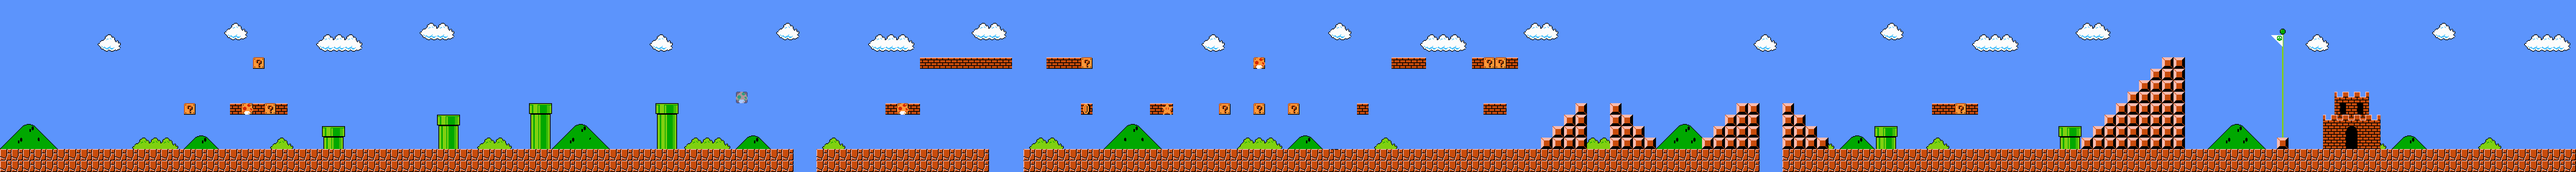
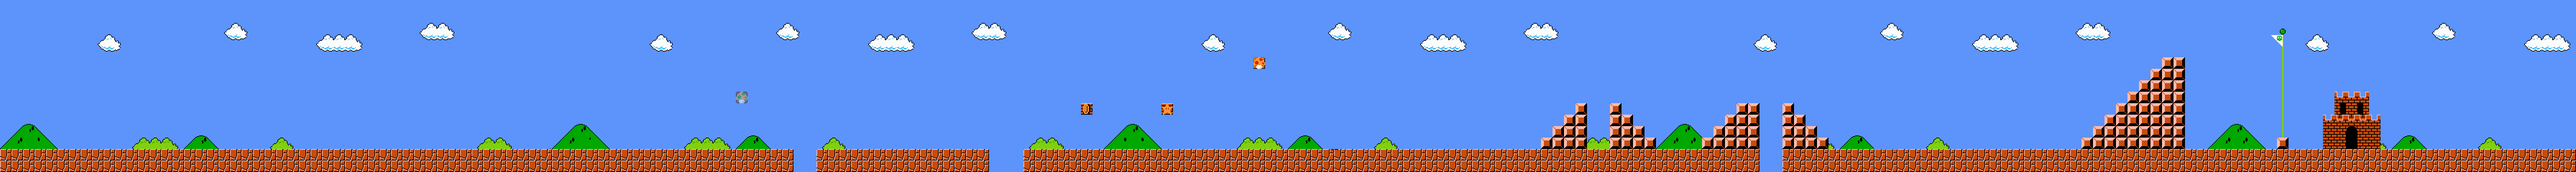
add

diff --git a/include/Level/Level1.hpp b/include/Level/Level1.hpp
@@ -15,6 +15,7 @@ class Level1 : public Level{
             m_Background->SetSize({1.5,1.5});
             m_Background->SetPivot({-3584,240});
             m_Background->SetPosition({-640,360});
+            m_Background->SetZIndex(1);
 
             Map_Manager = std::make_shared<MapManager>(m_Background->GetPosition(),m_Background->GetScaledSize());
 
@@ -79,14 +80,15 @@ class Level1 : public Level{
             }
         }
       private:
-       std::vector<glm::vec2> LuckyBlockPosition = {{16.5,-9.5},{22.5,-5.5},{21.5,-9.5},{23.5,-9.5},{78.5,-9.5},{94.5,-5.5},{106.5,-9.5},{109.5,-9.5},{109.5,-5.5},{112.5,-9.5},{129.5,-5.5},{130.5,-5.5},{170.5,-9.5}};std::vector<glm::vec2> OriginBlock = {{20.5,-9.5} , {22.5,-9.5} , {24.5,-9.5} , {77.5,-9.5} , {79.5,-9.5} , {80.5,-5.5} , {81.5,-5.5} , {82.5,-5.5} , {83.5,-5.5} , {84.5,-5.5} , {85.5,-5.5} , {86.5,-5.5} , {87.5,-5.5} , {91.5,-5.5} ,
-       {92.5,-5.5} , {93.5,-5.5} , {100.5,-9.5} , {118.5,-9.5} , {121.5 , -5.5} , {122.5 , -5.5} , {128.5 , -5.5} , {131.5 , -5.5} , {169.5 , -9.5} , {170.5 , -9.5} , {172.5 , -9.5}};
+       std::vector<glm::vec2> LuckyBlockPosition = {{16.5,-9.5},{22.5,-5.5},{21.5,-9.5},{23.5,-9.5},{78.5,-9.5},{94.5,-5.5},{106.5,-9.5},{109.5,-9.5},{109.5,-5.5},{112.5,-9.5},{129.5,-5.5},{130.5,-5.5},{170.5,-9.5}};
+       std::vector<glm::vec2>OriginBlock = {{20.5,-9.5} , {22.5,-9.5} , {24.5,-9.5} , {77.5,-9.5} , {79.5,-9.5} , {80.5,-5.5} , {81.5,-5.5} , {82.5,-5.5} , {83.5,-5.5} , {84.5,-5.5} , {85.5,-5.5} , {86.5,-5.5} , {87.5,-5.5} , {91.5,-5.5} ,
+       {92.5,-5.5} , {93.5,-5.5} , {100.5,-9.5} , {118.5,-9.5} , {121.5 , -5.5} , {122.5 , -5.5} , {123.5,-5.5},{128.5 , -5.5} ,{129.5,-9.5},{130.5,-9.5}, {131.5 , -5.5} , {168.5,-9.5},{169.5 , -9.5} , {171.5 , -9.5}    };
        std::vector<glm::vec2> FootBlock = {{134.5, -12.5},{135.5, -12.5},{135.5, -11.5},{136.5, -12.5},{136.5, -11.5},{136.5, -10.5},{137.5, -12.5},{137.5, -11.5},{137.5, -10.5},{137.5, -9.5},{143.5, -12.5}, {142.5, -12.5}, {142.5, -11.5}, {141.5, -12.5}, {141.5, -11.5}, {141.5, -10.5}, {140.5, -12.5}, {140.5, -11.5}, {140.5, -10.5}, {140.5, -9.5},
     {148.5, -12.5}, {149.5, -12.5}, {150.5, -12.5}, {151.5, -12.5}, {152.5, -12.5}, {149.5, -11.5}, {150.5, -11.5}, {151.5, -11.5}, {152.5, -11.5}, {150.5, -10.5}, {151.5, -10.5}, {152.5, -10.5}, {151.5, -9.5}, {152.5, -9.5},{158.5, -12.5}, {157.5, -12.5}, {156.5, -12.5}, {155.5, -12.5}, {157.5, -11.5}, {156.5, -11.5}, {155.5, -11.5}, {156.5, -10.5}, {155.5, -10.5}, {155.5, -9.5},
     {181.5, -12.5}, {182.5, -12.5}, {183.5, -12.5}, {184.5, -12.5}, {185.5, -12.5}, {186.5, -12.5}, {187.5, -12.5}, {188.5, -12.5}, {189.5, -12.5}, {182.5, -11.5}, {183.5, -11.5}, {184.5, -11.5}, {185.5, -11.5}, {186.5, -11.5}, {187.5, -11.5}, {188.5, -11.5}, {189.5, -11.5}, {183.5, -10.5}, {184.5, -10.5}, {185.5, -10.5}, {186.5, -10.5}, {187.5, -10.5}, {188.5, -10.5}, {189.5, -10.5}, {184.5, -9.5}, {185.5, -9.5}, {186.5, -9.5}, {187.5, -9.5}, {188.5, -9.5}, {189.5, -9.5}, {185.5, -8.5}, {186.5, -8.5}, {187.5, -8.5}, {188.5, -8.5}, {189.5, -8.5}, {186.5, -7.5}, {187.5, -7.5}, {188.5, -7.5}, {189.5, -7.5}, {187.5, -6.5}, {188.5, -6.5}, {189.5, -6.5}, {188.5, -5.5}, {189.5, -5.5}, {189.5, -4.5}};
        std::vector<float> FloorBlock = {69.5f, 70.5f , 86.5f , 87.5f , 88.5f , 153.5f ,154.5f};
-       std::vector<glm::vec2> Pipe_64_64 = {{29,-16},{164,-12},{180,-12}};
+       std::vector<glm::vec2> Pipe_64_64 = {{29,-12},{164,-12},{180,-12}};
        std::vector<glm::vec2> Pipe_64_96 = {{39,-11.5}};
-       std::vector<glm::vec2> Pipe_64_128 = {{47,-10.5},{58,-10.5}};
+       std::vector<glm::vec2> Pipe_64_128 = {{47,-11},{58,-11}};
 };
 #endif //LEVEL1_HPP

diff --git a/include/Manager/MapManager.hpp b/include/Manager/MapManager.hpp
@@ -32,18 +32,22 @@ class MapManager {
             this->MapPosition = MapPosition;
             this->MapSize = MapSize;
         }
-        void SetFloor(std::vector<std::shared_ptr<SceneObject>>& SceneManager,std::vector<float> &Position,float Floor_y) const {
+        void SetFloor(std::vector<std::shared_ptr<SceneObject>>& SceneManager,std::vector<float> &Position, const float Floor_y) const {
             for(float i = 0.5f ; i <= MapSize.x / 32 ; i++) {
                 bool Build = true;
-                for(float position : Position) {
+                for(const float position : Position) {
                     if(position == i) {
                         Build = false;
                     }
                 }
                 if(Build) {
                     auto temp = std::make_shared<SceneObject>(RESOURCE_DIR"/image/Background/Level1/Block/AirBlock.png",glm::vec2(MapPosition.x + i * 48 , MapPosition.y + Floor_y * 48));
+                    temp->SetSize({1.5,1.5});
+                    temp->SetZIndex(100);
                     SceneManager.push_back(temp);
                     temp = std::make_shared<SceneObject>(RESOURCE_DIR"/image/Background/Level1/Block/AirBlock.png",glm::vec2(MapPosition.x + i * 48 , MapPosition.y + (Floor_y - 1) * 48));
+                    temp->SetSize({1.5,1.5});
+                    temp->SetZIndex(100);
                     SceneManager.push_back(temp);
                 }
             }
@@ -76,7 +80,7 @@ class MapManager {
                         temp = nullptr;
                         break;
                 }
-                temp->SetZIndex(50);
+                temp->SetZIndex(100);
                 temp->SetSize({1.5,1.5});
                 SceneManager.push_back(temp);
             }
@@ -131,11 +135,11 @@ class MapManager {
                 else if(Mario->RightCollision(SceneObject)) {
                     Mario->SetPosition({SceneObject->GetPosition().x - abs(SceneObject->GetScaledSize().x / 2) - abs(Mario->GetScaledSize().x / 2) - 5,Mario->GetPosition().y});
                 }
-                else if(Mario->UpCollision(SceneObject)) {
-                    Mario->SetPosition({Mario->GetPosition().x,SceneObject->GetPosition().y - abs(SceneObject->GetScaledSize().y / 2) - abs(Mario->GetScaledSize().y / 2) - 5});
+                if(Mario->UpCollision(SceneObject)) {
+                    Mario->SetPosition({Mario->GetPosition().x,SceneObject->GetPosition().y - abs(SceneObject->GetScaledSize().y / 2) - abs(Mario->GetScaledSize().y / 2) - 1});
                 }
-                if(Mario->DownCollision(SceneObject)) {
-                    Mario->SetPosition({Mario->GetPosition().x,SceneObject->GetPosition().y + abs(SceneObject->GetScaledSize().y / 2) + abs(Mario->GetScaledSize().y / 2) + 5});
+                else if(Mario->DownCollision(SceneObject)) {
+                    Mario->SetPosition({Mario->GetPosition().x,SceneObject->GetPosition().y + abs(SceneObject->GetScaledSize().y / 2) + abs(Mario->GetScaledSize().y / 2) + 1});
                 }
             }
         }

diff --git a/include/Object/Object.hpp b/include/Object/Object.hpp
@@ -14,6 +14,19 @@ class Object : public Util::GameObject{
         std::shared_ptr<Core::Drawable> GetDrawable() {return m_Drawable;}
 
 
+        void SetGravity(float num) {
+            this->GravityNum = num;
+        }
+        float GetGravity() {
+            return GravityNum;
+        }
+        bool GetFalling() {
+            return Falling;
+        }
+        void SetFalling(bool f) {
+            this->Falling = f;
+        }
+
 
         bool Collision(const glm::vec2 &other) const {
                 if (
@@ -27,32 +40,35 @@ class Object : public Util::GameObject{
                 return false;
             }
         bool DownCollision(const std::shared_ptr<Object> &other) const {
-            glm::vec2 TempPos = {this->GetPosition().x, this->GetPosition().y - abs(this->GetScaledSize().y / 2) - 12};
-            if(other->Collision(TempPos)) {
+            glm::vec2 TempPos = {this->GetPosition().x, this->GetPosition().y - abs(this->GetScaledSize().y / 2) - 2};
+            if(other->Collision(TempPos)){
                 return true;
             }
             return false;
         }
         bool LeftCollision(const std::shared_ptr<Object> &other) const{
-            glm::vec2 TempPos = {this->GetPosition().x - abs(this->GetScaledSize().x / 2) - 12, this->GetPosition().y};
+            glm::vec2 TempPos = {this->GetPosition().x - abs(this->GetScaledSize().x / 2) - 4, this->GetPosition().y};
             if(other->Collision(TempPos)) {
                 return true;
             }
             return false;
         }
         bool RightCollision(const std::shared_ptr<Object> &other) const{
-            glm::vec2 TempPos = {this->GetPosition().x + abs(this->GetScaledSize().x / 2) + 12, this->GetPosition().y};
+            glm::vec2 TempPos = {this->GetPosition().x + abs(this->GetScaledSize().x / 2) + 4, this->GetPosition().y};
             if(other->Collision(TempPos)) {
                 return true;
             }
             return false;
         }
         bool UpCollision(const std::shared_ptr<Object> &other) const{
-            glm::vec2 TempPos = {this->GetPosition().x, this->GetPosition().y + abs(this->GetScaledSize().y / 2) + 12};
+            glm::vec2 TempPos = {this->GetPosition().x, this->GetPosition().y + abs(this->GetScaledSize().y / 2) + 2};
             if(other->Collision(TempPos)) {
                 return true;
             }
             return false;
         }
+    private:
+        float GravityNum = 0.0f;
+        bool Falling = false;
 };
 #endif //OBJECT_HPP

diff --git a/include/Manager/GravityManager.hpp b/include/Manager/GravityManager.hpp
@@ -22,23 +22,28 @@ class GravityManager {
         }
         void Update(){
             Util::Time::Update();
-            if(time <= 0) {
-                time -= Util::Time::GetDeltaTimeMs();
-               // Object->SetPosition({Object->GetPosition().x,Object->GetPosition().y -gravity});
-                time = 1000.0f;
+            for(auto &object : GravityObject) {
+                if(IsFalling(object)) {
+                    object->SetGravity(object->GetGravity() + gravity * Util::Time::GetDeltaTimeMs() / 1000);
+                    object->SetFalling(true);
+                }
+                else {
+                    object->SetGravity(0.0f);
+                    object->SetFalling(false);
+                }
+                object->SetPosition({object->GetPosition().x,object->GetPosition().y - object->GetGravity()});
             }
         };
-        bool Isfalling() {
-            for(auto object : GravityObject) {
-              //  if(object->)
+        bool IsFalling(const std::shared_ptr<Object> &Object) {
+            for(auto &Scene : Scenes) {
+                if(Object->DownCollision(Scene)) {
+                    return false;
+                }
             }
-        }
-        void SetGravity(float Number) {
-            time = Number;
+            return true;
         }
     private:
         const float gravity = 9.8f;
-        float time = 1000.0f;
         std::shared_ptr<Util::Time> Time = std::make_shared<Util::Time>();
         std::vector<std::shared_ptr<Object>> GravityObject;
         std::vector<std::shared_ptr<SceneObject>> Scenes;

diff --git a/src/Mario_small.cpp b/src/Mario_small.cpp
@@ -73,7 +73,10 @@ void Mario_small::update(std::shared_ptr<Mario> &m_MariO) {
 
     if(Util::Input::IsKeyPressed(Util::Keycode::W)) {
         m_MariO->SetCurrentState(Action::Jump);
-        m_MariO->SetPosition({m_MariO->GetPosition().x,m_MariO->GetPosition().y + 4});
+        if(!m_MariO->GetFalling()) {
+            m_MariO->SetPosition({m_MariO->GetPosition().x,m_MariO->GetPosition().y + 4});
+            m_MariO->SetGravity(-7.5);
+        }
     }
 
     if(Util::Input::IsKeyPressed(Util::Keycode::SPACE)) {

diff --git a/include/Monsters/Monster.hpp b/include/Monsters/Monster.hpp
@@ -10,7 +10,7 @@ enum Way {Right ,Left};
 class Monster : public AnimationObject {
     public:
       Monster(const size_t size,const std::string &Path) : AnimationObject(size,Path) {};
-      void SetWay(Way way) {
+      void SetWay(const Way way) {
           this->way = way;
           if(way == Right) {
               this->SetSize({1.2,1.2});

diff --git a/include/Monsters/Mushroom.hpp b/include/Monsters/Mushroom.hpp
@@ -11,7 +11,6 @@ class Mushroom : public Monster{
             this->SetWay(way);
             this->SetZIndex(100);
             this->SetPosition(position);
-            this->SetSize({1.2,1.2});
         };
         void Hurt() override;
         void Action() override;

diff --git a/include/Level/Level.hpp b/include/Level/Level.hpp
@@ -63,6 +63,7 @@ public:
         this->condition();
         MapManager::Update(m_MariO,Monsters,SceneManager);
         m_renderer->Update();
+        Gravity_Manager->Update();
     }
 
 

diff --git a/include/Object/StillObject.hpp b/include/Object/StillObject.hpp
@@ -6,7 +6,9 @@
 #define STILLOBJECT_HPP
 
 #include <string>
-#include "Object/Object.hpp"
+
+#include "Object.hpp"
+
 #include "Util/Image.hpp"
 
 class StillObject : public Object {
